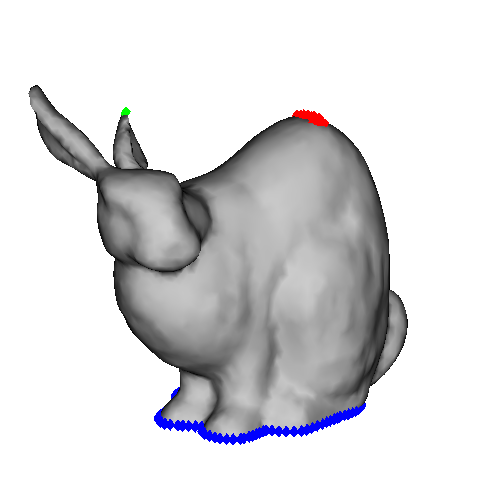
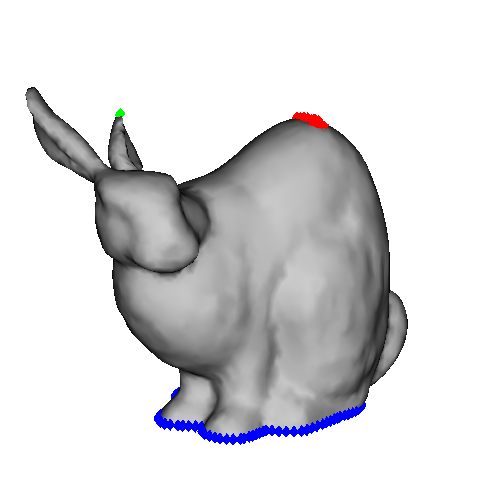
remove laplacian from bilapalican

diff --git a/task09/main.py b/task09/main.py
@@ -137,7 +137,7 @@ class HelloWorld(mglw.WindowConfig):
         L = self.matrix_laplace
         x_def = self.vtx2xyz_def
         x_ini = self.vtx2xyz_ini
-        self.vtx2xyz_def[:] = spsolve(D+L, D @ x_def + L @ x_ini)
+        # self.vtx2xyz_def[:] = spsolve(D+L, D @ x_def + L @ x_ini)
         # Problem 3: Bi-Laplacian deformation, which minimizes (x-x_def)D(x-x_def) + (x-x_ini)L^2(x-x_ini) w.r.t x,
         L2 = self.matrix_bilaplace
         self.vtx2xyz_def[:] = spsolve(D+L2, D @ x_def + L2 @ x_ini)
